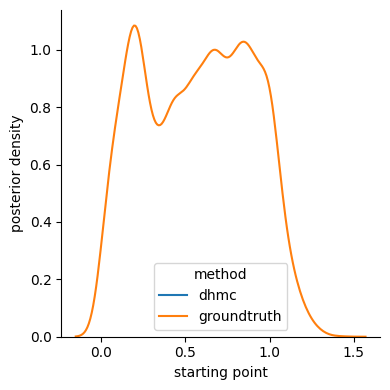
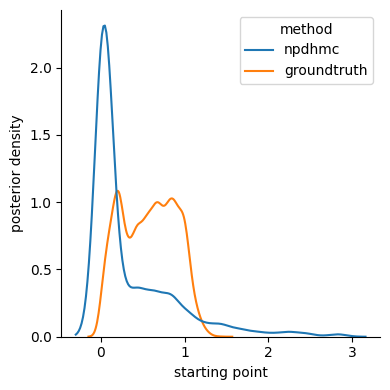
update

diff --git a/walk.py b/walk.py
@@ -192,7 +192,7 @@ def plot(
 
     data = {}
     samples_dir = Path(samples_dir).expanduser().resolve()
-    for label in ["hmc", "nuts", "dhmc", "groundtruth"]:
+    for label in ["hmc", "nuts", "npdhmc", "groundtruth"]:
         files = glob.glob((samples_dir / label / "*.pickle").as_posix())
         if len(files) == 0:
             continue
